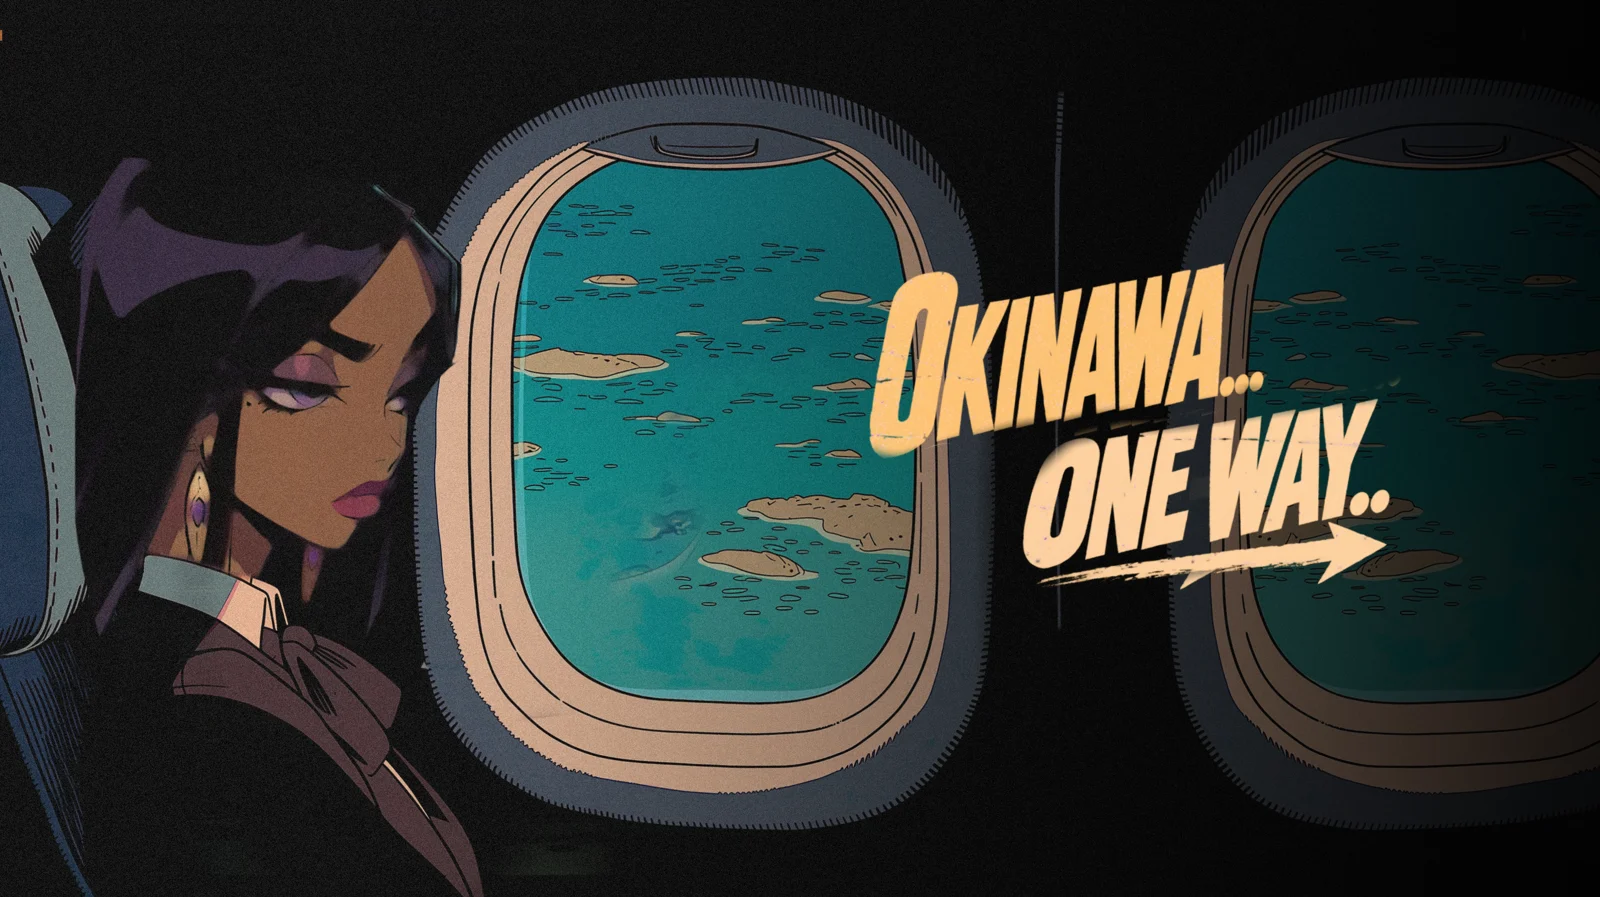
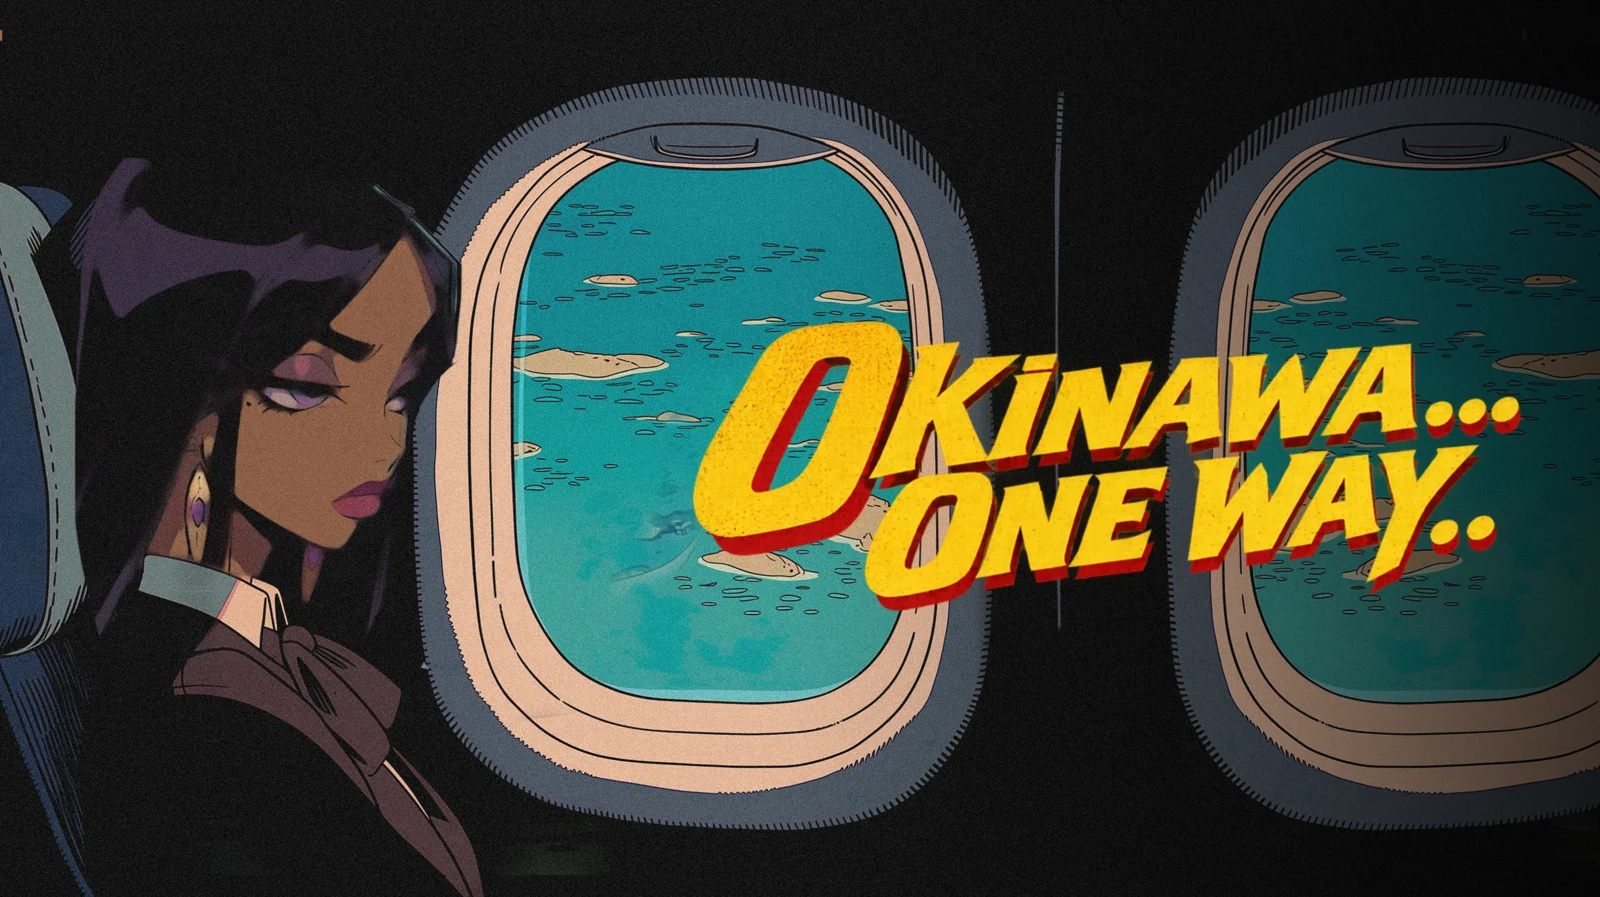
Okinawa page: new unified title artwork; square covers on phones, wide on desktop
Claude-Session: https://claude.ai/code/session_013w5yMdZKv437No8p47gv7E

diff --git a/okinawa/index.html b/okinawa/index.html
@@ -106,6 +106,7 @@ a{color:inherit}
 .art{width:100%;aspect-ratio:16/9;border-radius:10px;overflow:hidden;position:relative;background:
   repeating-linear-gradient(135deg,#1b1e26 0 10px,#20242e 10px 20px);display:grid;place-items:center}
 .art img{width:100%;height:100%;object-fit:cover;display:block}
+.art.sq{aspect-ratio:1}
 .art .ph{font-family:var(--jp);font-weight:900;color:var(--amber);font-size:44px;line-height:1;text-align:center}
 .art .ph small{display:block;font-family:var(--mono);font-size:9px;letter-spacing:.25em;color:#8b93a1;margin-top:8px;font-weight:700}
 .ptop{display:flex;justify-content:space-between;align-items:center;gap:10px;font-size:10px;letter-spacing:.24em;text-transform:uppercase;color:var(--ink2);font-weight:700}
@@ -291,7 +292,9 @@ footer a{text-decoration:none}footer a:hover{color:var(--amber)}
     art.innerHTML = '<div class="ph">'+t.kanji+'</div>';
     var img = new Image(); img.alt = t.name + " artwork";
     img.onload = function(){ art.innerHTML = ""; art.appendChild(img); };
-    img.src = t.art;
+    var sq = window.matchMedia && matchMedia("(max-width:820px)").matches;
+    art.classList.toggle("sq", !!sq);
+    img.src = sq ? t.art.replace("art-","sq-") : t.art;
   }
   function load(i, autoplay){
     cur = i; var t = TRACKS[i];
